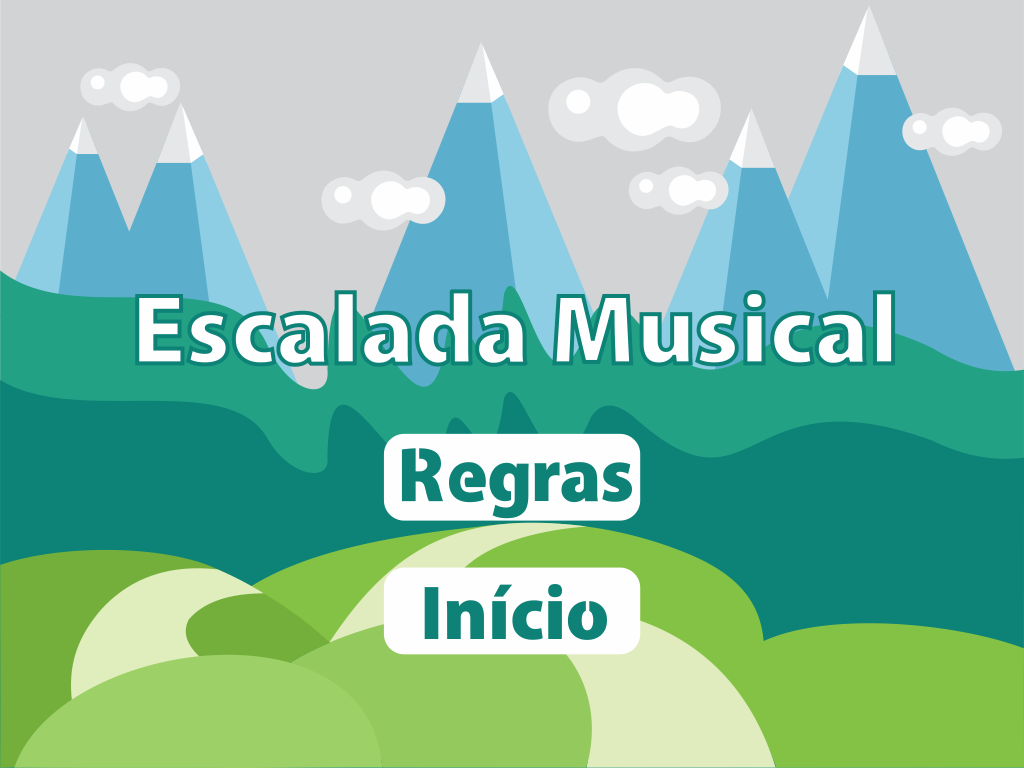
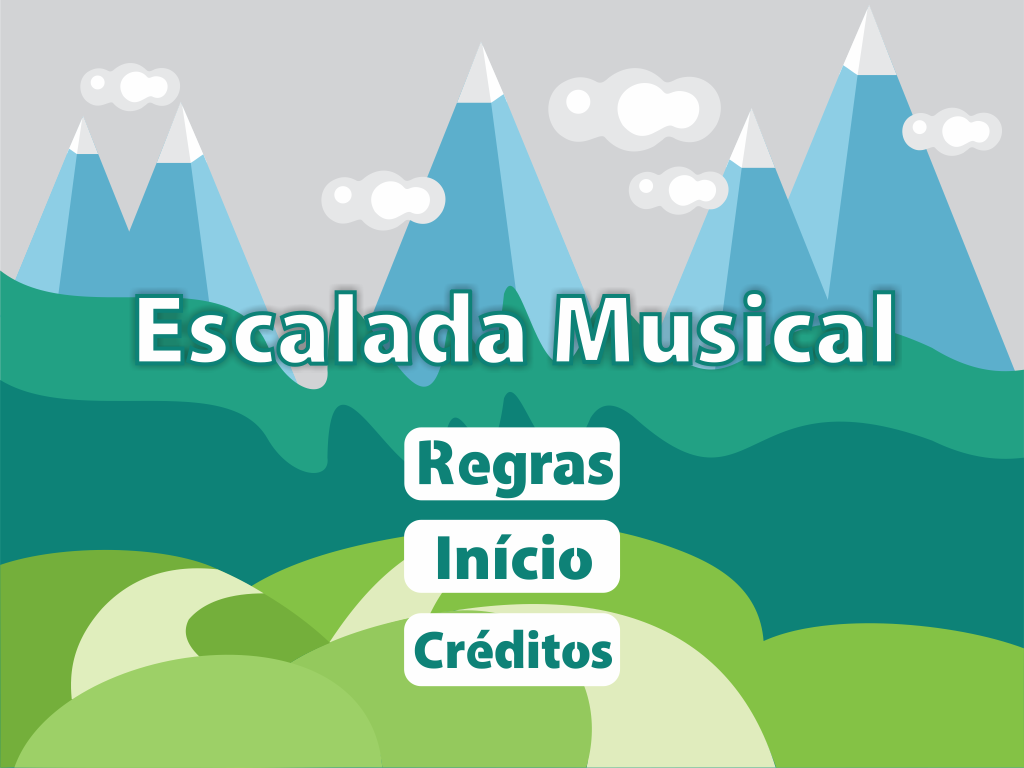
added credits button

diff --git a/index.html b/index.html
@@ -122,7 +122,7 @@
                     }
                     break;
                 case "click":
-                        if(target.parent.name == "startButton") {
+                        if(target.name == "startButton") {
                             selectionLevel();
                         }
                         else if(target.name == "firstLevel" && stage.name == "selectionLevel"){
@@ -131,8 +131,11 @@
                         else if(target.name == "secondLevel" && stage.name == "selectionLevel"){
                             secondLevel1();
                         }
-                        else if(target.parent.name == "rulesButton"){
-                            alert("REGRAS");
+                        else if(target.name == "rulesButton"){
+                            rulesMenu();
+                        }
+                        else if(target.name == "creditsButton"){
+                            creditsMenu();
                         }
                         else if(target.parent.name == "skipButton" && stage.name == "firstlevel1"){
                             meterCounter += 100;
@@ -525,54 +528,63 @@
             var startMenuBackground = new createjs.Bitmap(preload.getResult("start_menu_background"));
             stage.addChild(startMenuBackground);
 
-            var startBtnBg = new createjs.Shape();
-            startBtnBg.name = "buttonBackground";
-            startBtnBg.graphics.beginFill("red").drawRoundRect(0, 0, 256, 87, 20);
-
-            var startBtnTxt = new createjs.Text("Jogar!", "bold 24px Arial", "#FFFFFF");
-            startBtnTxt.name = "buttonText";
-            startBtnTxt.textAlign = "center";
-            startBtnTxt.textBaseline = "middle";
-            startBtnTxt.x = 150/2;
-            startBtnTxt.y = 60/2;
-
-            var startBtn = new createjs.Container();
-            startBtn.name = "startButton";
-            startBtn.x = 384;
-            startBtn.y = 568;
-            startBtn.alpha = 0.01;
-            startBtn.addChild(startBtnBg, startBtnTxt);
-
-            startBtn.cursor = "pointer";
-
-            stage.addChild(startBtn);
-
-            startBtn.on("click", handleMouseEvent);
-
-            var rulesBtnBg = new createjs.Shape();
-            rulesBtnBg.name = "buttonBackground";
-            rulesBtnBg.graphics.beginFill("red").drawRoundRect(0, 0, 256, 87, 20);
-
-            var rulesBtnTxt = new createjs.Text("Regras", "bold 24px Arial", "#FFFFFF");
-            rulesBtnTxt.name = "buttonText";
-            rulesBtnTxt.textAlign = "center";
-            rulesBtnTxt.textBaseline = "middle";
-            rulesBtnTxt.x = 150/2;
-            rulesBtnTxt.y = 60/2;
-
-            var rulesBtn = new createjs.Container();
+            var rulesBtn = new createjs.Shape();
             rulesBtn.name = "rulesButton";
-            rulesBtn.x = 384;
-            rulesBtn.y = 434;
+            rulesBtn.x = 404;
+            rulesBtn.y = 427;
             rulesBtn.alpha = 0.01;
-            rulesBtn.addChild(rulesBtnBg, rulesBtnTxt);
+            rulesBtn.graphics.beginFill("red").drawRoundRect(0, 0, 217, 75, 20);
 
             rulesBtn.cursor = "pointer";
 
-            stage.addChild(rulesBtn);
+            var startBtn = new createjs.Shape();
+            startBtn.name = "startButton";
+            startBtn.x = 404;
+            startBtn.y = 518;
+            startBtn.alpha = 0.01;
+            startBtn.graphics.beginFill("red").drawRoundRect(0, 0, 217, 75, 20);
+
+            startBtn.cursor = "pointer";
+
+            var creditsBtn = new createjs.Shape();
+            creditsBtn.name = "creditsButton";
+            creditsBtn.x = 404;
+            creditsBtn.y = 612;
+            creditsBtn.alpha = 0.01;
+            creditsBtn.graphics.beginFill("red").drawRoundRect(0, 0, 217, 75, 20);
+
+            creditsBtn.cursor = "pointer";
+
+            stage.addChild(rulesBtn, startBtn, creditsBtn);
 
             rulesBtn.on("click", handleMouseEvent);
-            
+            startBtn.on("click", handleMouseEvent);
+            creditsBtn.on("click", handleMouseEvent);
+
+            createjs.Ticker.addEventListener("tick", handleTick);
+
+            stage.update();
+        }
+
+        function rulesMenu(){
+            clearStage();
+
+            stage.name = "rulesmenu";
+            var startMenuBackground = new createjs.Bitmap(preload.getResult("background"));
+            stage.addChild(startMenuBackground);
+
+            createjs.Ticker.addEventListener("tick", handleTick);
+
+            stage.update();
+        }
+
+        function creditsMenu(){
+            clearStage();
+
+            stage.name = "creditsmenu";
+            var startMenuBackground = new createjs.Bitmap(preload.getResult("background"));
+            stage.addChild(startMenuBackground);
+
             createjs.Ticker.addEventListener("tick", handleTick);
 
             stage.update();
